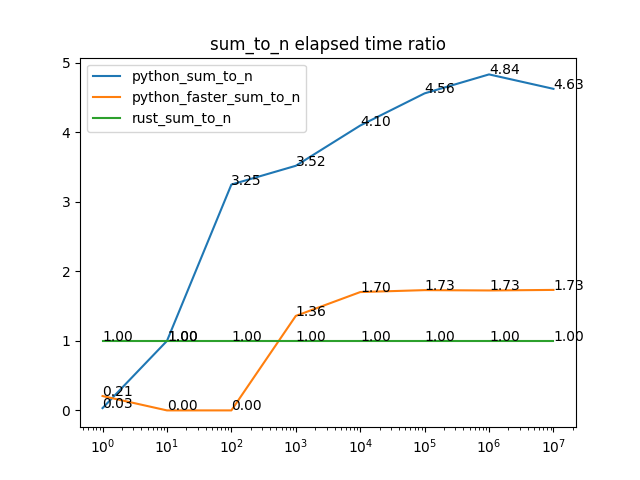
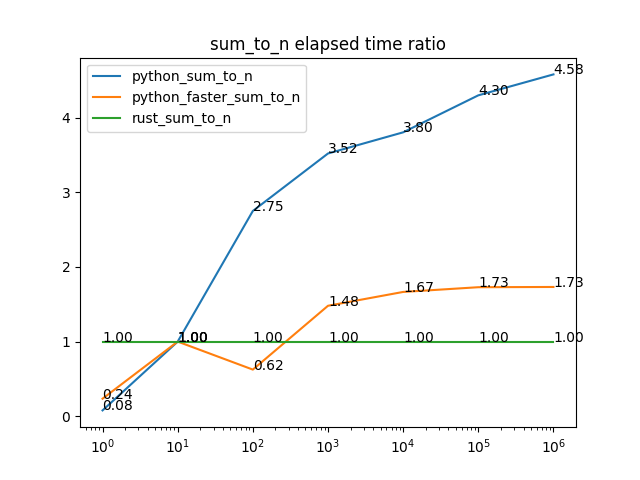
Update code

diff --git a/python_rust_module/main.py b/python_rust_module/main.py
@@ -35,7 +35,8 @@ def rust_sum_to_n(n):
 
 
 if __name__ == "__main__":
-    test_input = [pow(10, i) for i in range(8)]
+    file_abs_folder_path = f"{__file__[:__file__.rfind('/')]}"
+    test_input = [pow(10, i) for i in range(7)]
     test_functions = [python_sum_to_n, python_faster_sum_to_n, rust_sum_to_n]
     outputs = [[fn(n) for n in test_input] for fn in test_functions]
 
@@ -57,9 +58,9 @@ if __name__ == "__main__":
     plt.xscale("log")
     plt.legend()
     plt.title("sum_to_n elapsed time")
-    plt.show()
+    plt.savefig(f"{file_abs_folder_path}/../images/sum_to_n_elapsed_time.png")
+    plt.clf()
 
-    print(elapsed_dict.keys())
     # compare ratio of elapsed time python over rust
     rust_elapsed = elapsed_dict["rust_sum_to_n"]
     for fn_name, elapsed in elapsed_dict.items():
@@ -71,4 +72,5 @@ if __name__ == "__main__":
     plt.xscale("log")
     plt.legend()
     plt.title("sum_to_n elapsed time ratio")
-    plt.show()
+    # plt with high resolution
+    plt.savefig(f"{file_abs_folder_path}/../images/sum_to_n_elapsed_time_ratio.png")
